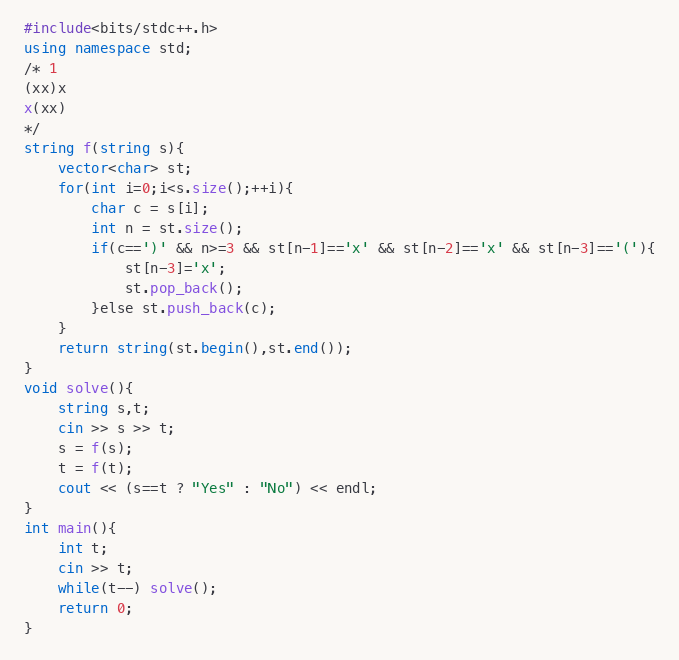
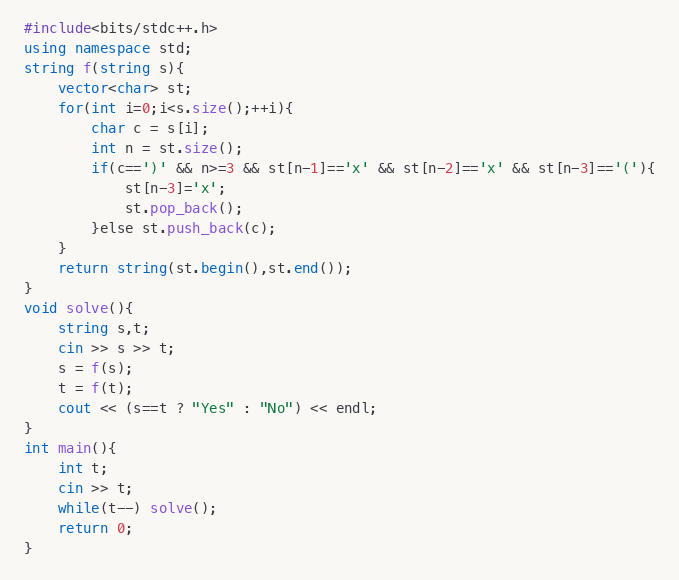
Rewrite opening around equivalence-class theme; fix code image comment removal (// + /* */)

diff --git a/ABC454/article.html b/ABC454/article.html
@@ -63,17 +63,12 @@ hr { border: none; border-top: 1px solid #e0e0e0; margin: 24px 0; }
 <body>
 <div class="container">
 
-<h1>ABC454 题解：图论深搜与栈的巧妙运用</h1>
+<h1>ABC454 题解：从等价类思想到栈规范化</h1>
 
-<h2>一、为什么选这两道题来写</h2>
-<p>在 AtCoder Beginner Contest 的题单里，C 题和 D 题是一道隐形的分水岭。</p>
-<p>A、B 两题通常只需要基础语法和简单模拟，只要学过编程就能做。但从 C 题开始，题目会要求你<span style="color:#e74c3c">建立抽象的数学模型</span>，或者<span style="color:#2980b9">灵活运用基础数据结构</span>。如果这套思路没有打通，后面的 E、F 题基本无从谈起。</p>
-<p>这次 ABC454 的 C 题和 D 题，恰好分别对应了算法竞赛中最核心的两个基础能力：</p>
-<ul>
-<li><span style="color:#e74c3c">C 题 — 有向图上的深度优先搜索（DFS）</span>：将物品交换关系建模为有向图，问题转化为从起点出发能到达多少节点。</li>
-<li><span style="color:#2980b9">D 题 — 栈的灵活运用</span>：字符串的局部替换规则，可以通过栈在 O(N) 时间内完成规范化，进而判断两个字符串是否等价。</li>
-</ul>
-<p>图论和数据结构之所以重要，是因为它们处于整个算法知识体系的<span style="color:#8e44ad">承上启下</span>位置。向上，它们连接着数组、链表、递归这些最基础的概念；向下，它们延伸出最短路径、拓扑排序、并查集、线段树等一系列进阶工具。能把这两道题吃透，说明你已经从"会写代码"跨入了"会设计算法"的阶段。</p>
+<h2>一、一道藏着数学思想的字符串题</h2>
+<p>这次 ABC454 最有意思的是 D 题。表面上看，它只是一个字符串替换游戏——把 <code>(xx)</code> 和 <code>xx</code> 来回变。但深入一层，你会发现它背后藏着一个非常漂亮的<span style="color:#e74c3c">数学思想：等价类</span>。</p>
+<p>在数学中，等价关系需要满足三条性质：自反、对称、传递。一旦满足，集合就会被划分成若干个等价类，同一类里的元素可以互相转化，不同类之间永远绝缘。D 题的两种替换操作恰好构成了这样的等价关系。于是，判断两个字符串能否互相转换，就变成了判断它们是否属于<span style="color:#2980b9">同一个等价类</span>——而判断等价类最优雅的方法，就是为每个类找一个<span style="color:#8e44ad">唯一的代表元</span>（规范形式）。</p>
+<p>C 题则是一道经典的图论建模题：把物品交换规则抽象成有向图，问题瞬间从"怎么换"变成了"能走到哪"。</p>
 <p>下面进入具体的题目分析。</p>
 
 <hr>

diff --git a/ABC454/code_to_image.py b/ABC454/code_to_image.py
@@ -38,7 +38,10 @@ KW_PATTERN = re.compile(r'\b(' + '|'.join(re.escape(w) for w in KW_LIST) + r')\b
 
 
 def remove_comments(code):
-    """Remove // comments and blank lines."""
+    """Remove // comments, /* */ block comments, and blank lines."""
+    import re
+    # Remove /* ... */ block comments (non-greedy, multiline)
+    code = re.sub(r'/\*.*?\*/', '', code, flags=re.DOTALL)
     lines = []
     for line in code.splitlines():
         line = line.split("//")[0].rstrip()

diff --git a/ABC454/article.md b/ABC454/article.md
@@ -1,17 +1,12 @@
-# ABC454 题解：图论深搜与栈的巧妙运用
+# ABC454 题解：从等价类思想到栈规范化
 
-## 一、为什么选这两道题来写
+## 一、一道藏着数学思想的字符串题
 
-在 AtCoder Beginner Contest 的题单里，C 题和 D 题是一道隐形的分水岭。
+这次 ABC454 最有意思的是 D 题。表面上看，它只是一个字符串替换游戏——把 `(xx)` 和 `xx` 来回变。但深入一层，你会发现它背后藏着一个非常漂亮的<span style="color:#e74c3c">数学思想：等价类</span>。
 
-A、B 两题通常只需要基础语法和简单模拟，只要学过编程就能做。但从 C 题开始，题目会要求你<span style="color:#e74c3c">建立抽象的数学模型</span>，或者<span style="color:#2980b9">灵活运用基础数据结构</span>。如果这套思路没有打通，后面的 E、F 题基本无从谈起。
+在数学中，等价关系需要满足三条性质：自反、对称、传递。一旦满足，集合就会被划分成若干个等价类，同一类里的元素可以互相转化，不同类之间永远绝缘。D 题的两种替换操作恰好构成了这样的等价关系。于是，判断两个字符串能否互相转换，就变成了判断它们是否属于<span style="color:#2980b9">同一个等价类</span>——而判断等价类最优雅的方法，就是为每个类找一个<span style="color:#8e44ad">唯一的代表元</span>（规范形式）。
 
-这次 ABC454 的 C 题和 D 题，恰好分别对应了算法竞赛中最核心的两个基础能力：
-
-- <span style="color:#e74c3c">C 题 — 有向图上的深度优先搜索（DFS）</span>：将物品交换关系建模为有向图，问题转化为从起点出发能到达多少节点。
-- <span style="color:#2980b9">D 题 — 栈的灵活运用</span>：字符串的局部替换规则，可以通过栈在 O(N) 时间内完成规范化，进而判断两个字符串是否等价。
-
-图论和数据结构之所以重要，是因为它们处于整个算法知识体系的<span style="color:#8e44ad">承上启下</span>位置。向上，它们连接着数组、链表、递归这些最基础的概念；向下，它们延伸出最短路径、拓扑排序、并查集、线段树等一系列进阶工具。能把这两道题吃透，说明你已经从"会写代码"跨入了"会设计算法"的阶段。
+C 题则是一道经典的图论建模题：把物品交换规则抽象成有向图，问题瞬间从"怎么换"变成了"能走到哪"。
 
 下面进入具体的题目分析。
 

diff --git a/skills/code/SKILL.md b/skills/code/SKILL.md
@@ -19,7 +19,7 @@ WeChat's editor sometimes collapses whitespace or misaligns text when copying HT
 
 ### 1. Prepare source code
 
-Read the `.cpp` file and remove all comments (`// ...`) and blank lines. Keep only executable code — explanations belong in the article prose, not in the code.
+Read the `.cpp` file and remove **all comments** (`// ...` line comments AND `/* ... */` block comments) and blank lines. Keep only executable code — explanations belong in the article prose, not in the code.
 
 ### 2. Syntax highlight
 
